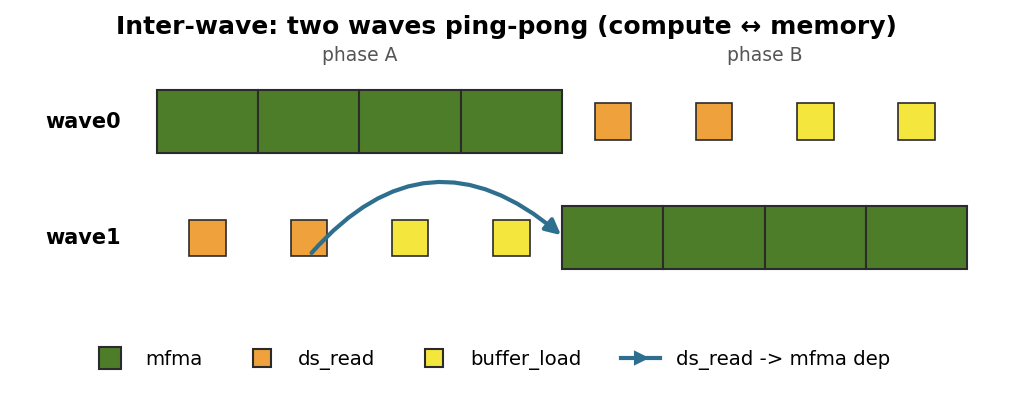
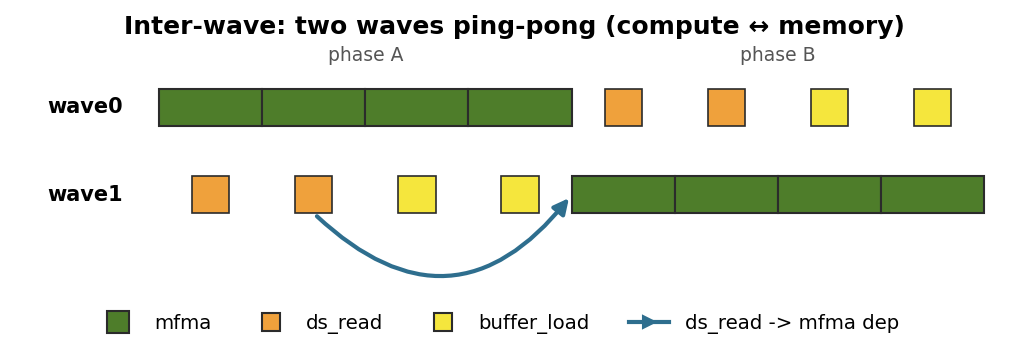
docs(gemm): refine §2 scheduling diagrams
- mfma rectangle height now matches the ds_read/buffer_load squares
- inter-wave: route the ds_read->mfma dependency arrow below the buffer_loads
- intra-wave: ds_read/buffer_load squares overlap the mfma inline (one wave
  weaves memory into its own stream), dependency arc above the row
- reorder the models intra -> inter -> warp specialization (§2.1/2.2/2.3)

diff --git a/scripts/plot_scheduling_models.py b/scripts/plot_scheduling_models.py
@@ -54,8 +54,8 @@ MF = "#4E7D2A"  # mfma          (green rectangle)
 DEP = "#2E6E8E"  # dependency arrow (teal)
 EDGE = "#2b2b2b"
 
-MW, MH = 1.0, 0.62  # mfma rectangle (wide = long compute op)
-MS = 0.36  # mem square side (small = quick issue)
+MW, MH = 1.0, 0.36  # mfma rectangle (wide = long compute op; height == mem square)
+MS = 0.36  # ds_read / buffer_load square side
 
 
 def mfma(ax, x, y):
@@ -117,11 +117,31 @@ def save(fig, name):
     print("wrote", out)
 
 
+# ------------------------------------------------------------------ intra-wave
+def plot_intra():
+    fig, ax = plt.subplots(figsize=(8.6, 1.9))
+    fig.patch.set_facecolor("white")
+    y = 0.4
+    wave_label(ax, y, "wave0")
+    for i in range(8):  # 8 mfma, contiguous -> matrix pipe stays busy
+        mfma(ax, i, y)
+    # ds/buffer_load overlap the mfma inline (one wave weaves them into its stream)
+    cols = (DS, DS, BL, BL, DS, DS, BL, BL)
+    for i, c in enumerate(cols):
+        mem(ax, i + 0.5, y, c)
+    # dep: a region-A ds prepares region-B operands (issued a full region early)
+    dep(ax, (1.5, y + MS / 2), (4.0, y + MH / 2), rad=-0.55)
+    finish(ax, "Intra-wave: one wave, memory software-pipelined into the mfma stream",
+           (-1.4, 8.3), (-0.15, 1.5))
+    legend(fig)
+    save(fig, "sched_intra_wave.png")
+
+
 # ------------------------------------------------------------------ inter-wave
 def plot_inter():
-    fig, ax = plt.subplots(figsize=(8.6, 2.5))
+    fig, ax = plt.subplots(figsize=(8.6, 2.3))
     fig.patch.set_facecolor("white")
-    y0, y1 = 1.15, 0.0  # wave0 top, wave1 bottom
+    y0, y1 = 0.85, 0.0  # wave0 top, wave1 bottom
     wave_label(ax, y0, "wave0")
     wave_label(ax, y1, "wave1")
     # phase A (x 0-4): wave0 computes, wave1 preps memory
@@ -134,41 +154,20 @@ def plot_inter():
         mfma(ax, i, y1)
     for xc, c in zip((4.5, 5.5, 6.5, 7.5), (DS, DS, BL, BL)):
         mem(ax, xc, y0, c)
-    # dep: wave1's ds (phase A) -> wave1's first mfma (phase B)
-    dep(ax, (1.5, y1 - MS / 2), (4.02, y1), rad=-0.5)
-    ax.text(2.0, y0 + 0.6, "phase A", ha="center", fontsize=9, color="#555")
-    ax.text(6.0, y0 + 0.6, "phase B", ha="center", fontsize=9, color="#555")
-    finish(ax, "Inter-wave: two waves ping-pong (compute ↔ memory)", (-1.4, 8.3), (-1.0, 1.85))
+    # dep: wave1's ds (phase A) -> wave1's first mfma (phase B), routed *below* the mem row
+    dep(ax, (1.5, y1 - MS / 2), (4.0, y1), rad=0.55)
+    ax.text(2.0, y0 + 0.45, "phase A", ha="center", fontsize=9, color="#555")
+    ax.text(6.0, y0 + 0.45, "phase B", ha="center", fontsize=9, color="#555")
+    finish(ax, "Inter-wave: two waves ping-pong (compute ↔ memory)", (-1.4, 8.3), (-1.0, 1.4))
     legend(fig)
     save(fig, "sched_inter_wave.png")
 
 
-# ------------------------------------------------------------------ intra-wave
-def plot_intra():
-    fig, ax = plt.subplots(figsize=(8.6, 1.9))
-    fig.patch.set_facecolor("white")
-    y = 0.5
-    wave_label(ax, y, "wave0")
-    for i in range(8):  # 8 mfma, contiguous -> matrix pipe stays busy
-        mfma(ax, i, y)
-    seams = (0.9, 1.9, 2.9, 3.9, 4.9, 5.9, 6.9, 7.9)
-    cols = (DS, DS, BL, BL, DS, DS, BL, BL)
-    ytop = y + MH / 2 + MS / 2 + 0.02
-    for xc, c in zip(seams, cols):
-        mem(ax, xc, ytop, c)
-    # dep: a region-A ds prepares region-B operands (issued a full region early)
-    dep(ax, (1.9, ytop + MS / 2), (4.02, y + MH / 2), rad=0.5)
-    finish(ax, "Intra-wave: one wave, memory software-pipelined into the mfma stream",
-           (-1.4, 8.3), (-0.2, 1.55))
-    legend(fig)
-    save(fig, "sched_intra_wave.png")
-
-
 # ---------------------------------------------------------- warp specialization
 def plot_ws():
-    fig, ax = plt.subplots(figsize=(8.6, 2.5))
+    fig, ax = plt.subplots(figsize=(8.6, 2.3))
     fig.patch.set_facecolor("white")
-    y0, y1 = 1.15, 0.0
+    y0, y1 = 0.85, 0.0
     wave_label(ax, y0, "wave0")
     wave_label(ax, y1, "wave1")
     for i in range(8):  # wave0: only mfma, back to back, never stalls
@@ -179,18 +178,18 @@ def plot_ws():
         mem(ax, xc, y1, c)
     # dep crosses waves: producer (wave1 ds) -> consumer (wave0 mfma)
     dep(ax, (1.5, y1 + MS / 2), (4.0, y0 - MH / 2), rad=0.0)
-    ax.text(4.0, y0 + 0.6, "compute wave (never issues memory)", ha="center", fontsize=8.5,
+    ax.text(4.0, y0 + 0.42, "compute wave (never issues memory)", ha="center", fontsize=8.5,
             color="#555")
-    ax.text(4.0, y1 - 0.55, "producer wave (only memory)", ha="center", fontsize=8.5, color="#555")
+    ax.text(4.0, y1 - 0.5, "producer wave (only memory)", ha="center", fontsize=8.5, color="#555")
     finish(ax, "Warp specialization: dedicated compute + producer waves (not on gfx950)",
-           (-1.4, 8.3), (-1.0, 1.85))
+           (-1.4, 8.3), (-1.0, 1.4))
     legend(fig)
     save(fig, "sched_warp_spec.png")
 
 
 def main():
-    plot_inter()
     plot_intra()
+    plot_inter()
     plot_ws()
 
 

diff --git a/kernels/gemm/README.md b/kernels/gemm/README.md
@@ -50,21 +50,21 @@ The design knob is **who issues the memory, relative to who issues the compute**
 
 All three diagrams below model the same SIMD0 workload: **2 regions of 4 `mfma`** (8 `mfma` total); each region needs **2 `ds_read`** to stage its operands and issues **2 `buffer_load`** to prefetch later regions. A row is one wave's *issue timeline* — wide green = `mfma`, small orange/yellow = memory, and the arrow is the `ds_read → first mfma` dependency. Latencies are assumed fully hidden, so all three finish the 8 `mfma` in the same time; what differs is the *structure* that makes the overlap happen.
 
-### 2.1 Inter-wave — two waves ping-pong
-
-![inter-wave schedule: two waves alternate compute and memory](images/sched_inter_wave.png)
-
-Two waves share the SIMD and split the work evenly, running **phase-offset**: while `wave0` executes its 4-`mfma` region, `wave1` issues that region's `ds_read` + `buffer_load`; then they swap roles. Because at every instant *one* of the two waves is in its compute region, the SIMD's matrix pipe is never idle — the overlap is a property of the **ping-pong**, not of any within-wave instruction ordering. Each wave simply runs a compute block, then a memory block, so almost no compiler scheduling is required and these kernels build on stock upstream Triton + LLVM.
-
-This is the [`inter_wave/`](inter_wave/README.md) route (`a16w16`, `a8w8`, `a4w4`): **two waves per SIMD**, driven by `warp_pipeline_stage`, no AGPRs.
-
-### 2.2 Intra-wave — one wave, software-pipelined
+### 2.1 Intra-wave — one wave, software-pipelined
 
 ![intra-wave schedule: one wave interleaves memory into its mfma stream](images/sched_intra_wave.png)
 
 A **single wave per SIMD** does everything. Its one issue stream has to **weave** the `ds_read`/`buffer_load` in among the `mfma`, and — critically — issue the memory for a *future* region early enough that its latency is hidden behind the `mfma` executing now (the dependency arrow spans a full region). The matrix pipe stays busy only if that interleaving is created; nothing in the hardware does it automatically. Here the scheduling intelligence lives in the **compiler**: the LLIR scheduler + `force-agpr` + `amdgcnas` plugins recover and preserve the interleaved schedule the Gluon kernel expresses.
 
 This is the [`intra_wave/`](intra_wave/README.md) route (`a16w16` v0→v9, `a8w8`, `a4w4`): **one wave per SIMD**, compiler-interleaved.
+
+### 2.2 Inter-wave — two waves ping-pong
+
+![inter-wave schedule: two waves alternate compute and memory](images/sched_inter_wave.png)
+
+Two waves share the SIMD and split the work evenly, running **phase-offset**: while `wave0` executes its 4-`mfma` region, `wave1` issues that region's `ds_read` + `buffer_load`; then they swap roles. Because at every instant *one* of the two waves is in its compute region, the SIMD's matrix pipe is never idle — the overlap is a property of the **ping-pong**, not of any within-wave instruction ordering. Each wave simply runs a compute block, then a memory block, so almost no compiler scheduling is required and these kernels build on stock upstream Triton + LLVM.
+
+This is the [`inter_wave/`](inter_wave/README.md) route (`a16w16`, `a8w8`, `a4w4`): **two waves per SIMD**, driven by `warp_pipeline_stage`, no AGPRs.
 
 ### 2.3 Warp specialization — dedicated producer + consumer waves
 
